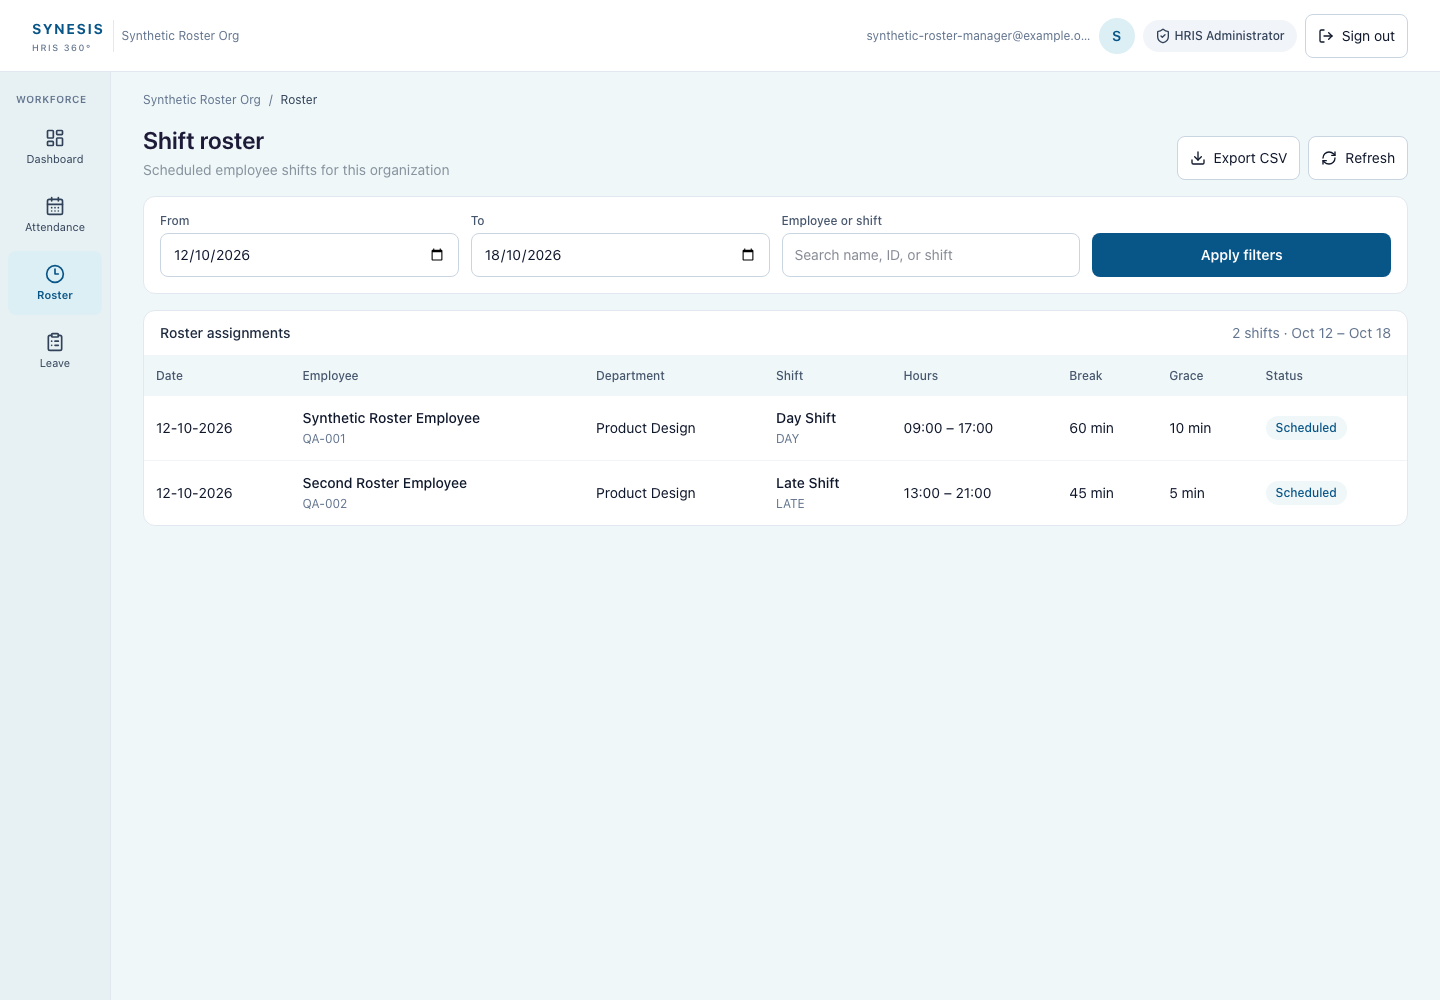
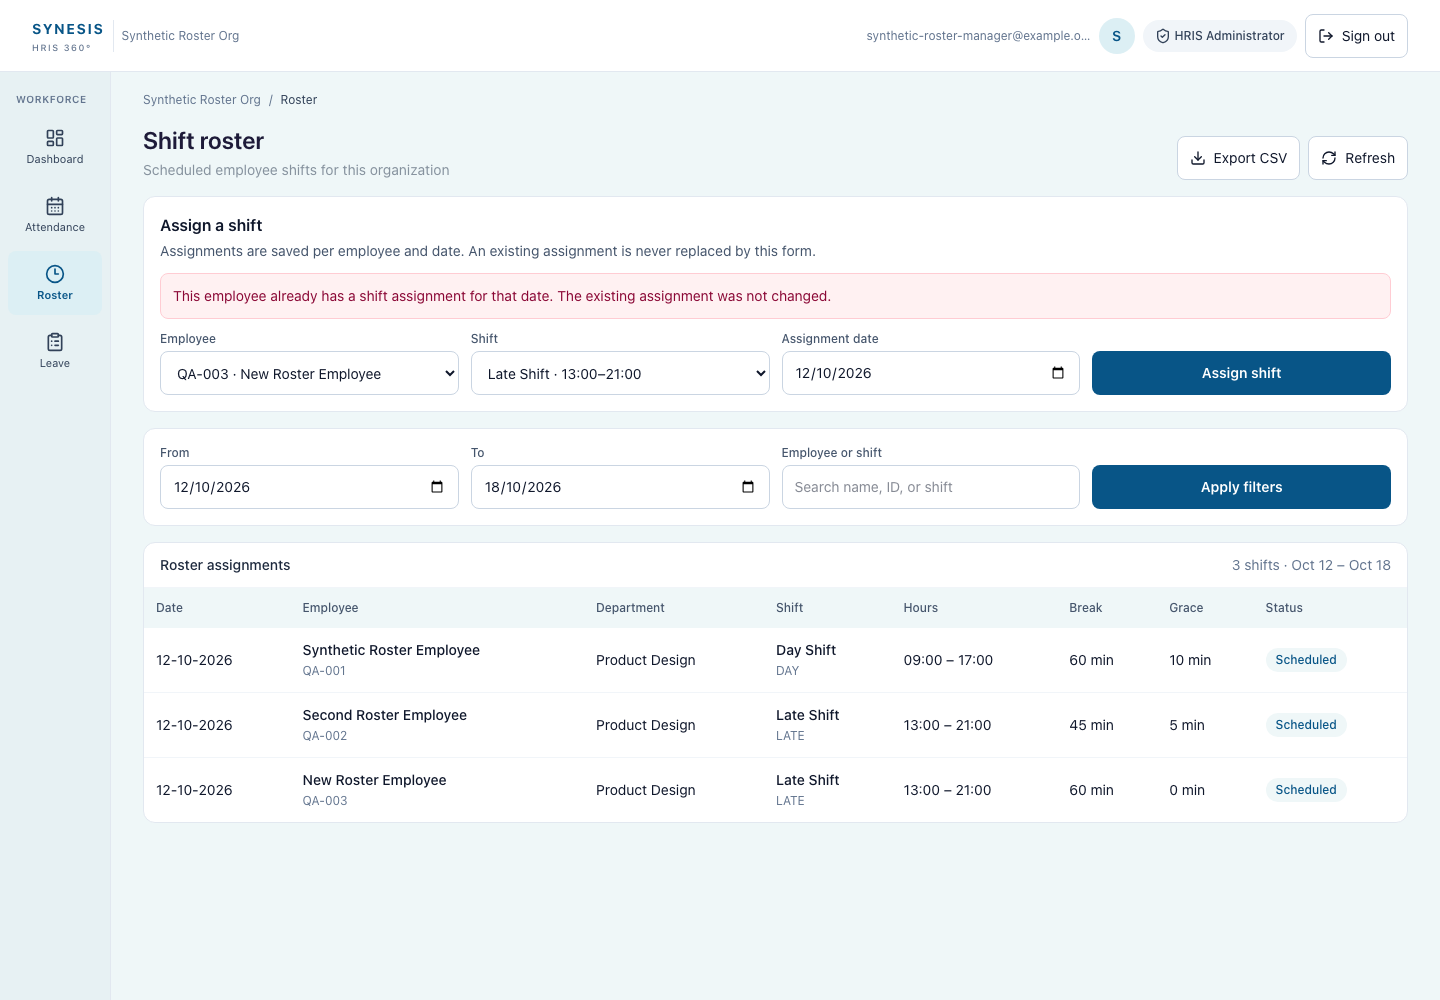
feat: add tenant-scoped shift assignment

diff --git a/src/live/LiveHrisWorkspace.tsx b/src/live/LiveHrisWorkspace.tsx
@@ -516,15 +516,53 @@ function AttendanceReport({ tenantId, canView, canReport, canManage }: { tenantI
   </section>;
 }
 
-function ShiftRoster({ tenantId }: { tenantId: string }) {
+function ShiftRoster({ tenantId, canManage }: { tenantId: string; canManage: boolean }) {
   const [assignments, setAssignments] = useState<Record<string, unknown>[]>([]);
+  const [employeeOptions, setEmployeeOptions] = useState<Record<string, unknown>[]>([]);
+  const [shiftOptions, setShiftOptions] = useState<Record<string, unknown>[]>([]);
   const [loading, setLoading] = useState(true);
+  const [optionsLoading, setOptionsLoading] = useState(false);
   const [error, setError] = useState('');
+  const [optionsError, setOptionsError] = useState('');
+  const [assignmentError, setAssignmentError] = useState('');
+  const [assignmentMessage, setAssignmentMessage] = useState('');
+  const [selectedEmployeeId, setSelectedEmployeeId] = useState('');
+  const [selectedShiftId, setSelectedShiftId] = useState('');
+  const [assignmentDate, setAssignmentDate] = useState(() => localIsoDate(new Date()));
+  const [savingAssignment, setSavingAssignment] = useState(false);
   const [from, setFrom] = useState(() => localIsoDate(new Date()));
   const [to, setTo] = useState(endOfUpcomingWeek);
   const [search, setSearch] = useState('');
   const [submittedSearch, setSubmittedSearch] = useState('');
   const requestSequence = useRef(0);
+
+  async function loadOptions() {
+    if (!canManage) {
+      setEmployeeOptions([]);
+      setShiftOptions([]);
+      return;
+    }
+    setOptionsLoading(true);
+    setOptionsError('');
+    try {
+      const result = await supabase.rpc('hris_get_tenant_shift_roster_options', { p_tenant_id: tenantId });
+      if (result.error) throw result.error;
+      const value = asObject(result.data);
+      if (!value) throw new Error('Roster assignment options returned an invalid response.');
+      const employees = asRows(value.employees);
+      const shifts = asRows(value.shifts);
+      setEmployeeOptions(employees);
+      setShiftOptions(shifts);
+      setSelectedEmployeeId(previous => employees.some(row => row.id === previous)
+        ? previous : String(employees[0]?.id || ''));
+      setSelectedShiftId(previous => shifts.some(row => row.id === previous)
+        ? previous : String(shifts[0]?.id || ''));
+    } catch (cause) {
+      setEmployeeOptions([]);
+      setShiftOptions([]);
+      setOptionsError(cause instanceof Error ? cause.message : 'Unable to load assignable employees and shifts.');
+    } finally { setOptionsLoading(false); }
+  }
 
   async function load() {
     const requestId = ++requestSequence.current;
@@ -557,6 +595,39 @@ function ShiftRoster({ tenantId }: { tenantId: string }) {
     return () => { requestSequence.current += 1; };
   }, [tenantId, from, to, submittedSearch]);
 
+  useEffect(() => { void loadOptions(); }, [tenantId, canManage]);
+
+  async function assignShift(event: FormEvent<HTMLFormElement>) {
+    event.preventDefault();
+    if (savingAssignment) return;
+    setAssignmentError('');
+    setAssignmentMessage('');
+    if (!selectedEmployeeId || !selectedShiftId || !assignmentDate) {
+      setAssignmentError('Choose an employee, shift and date.');
+      return;
+    }
+    setSavingAssignment(true);
+    try {
+      const result = await supabase.rpc('hris_assign_tenant_employee_shift', {
+        p_tenant_id: tenantId,
+        p_employee_id: selectedEmployeeId,
+        p_shift_id: selectedShiftId,
+        p_assignment_date: assignmentDate,
+      });
+      if (result.error) {
+        if (result.error.code === '23505') {
+          throw new Error('This employee already has a shift assignment for that date. The existing assignment was not changed.');
+        }
+        throw result.error;
+      }
+      const selectedEmployee = employeeOptions.find(row => row.id === selectedEmployeeId);
+      setAssignmentMessage(`Shift assigned to ${display(selectedEmployee?.full_name)}.`);
+      await load();
+    } catch (cause) {
+      setAssignmentError(cause instanceof Error ? cause.message : 'Unable to assign this shift.');
+    } finally { setSavingAssignment(false); }
+  }
+
   function downloadRoster() {
     downloadCsv(`shift-roster-${from}-to-${to}.csv`,
       ['Date', 'Employee number', 'Employee', 'Department', 'Shift', 'Code', 'Start', 'End', 'Break minutes', 'Grace minutes', 'Status'],
@@ -568,7 +639,7 @@ function ShiftRoster({ tenantId }: { tenantId: string }) {
   return <section aria-labelledby="shift-roster-heading" className="space-y-4">
     <div className="flex flex-wrap items-end justify-between gap-3">
       <div><h2 id="shift-roster-heading" className="text-2xl font-semibold text-[#1E1B39]">Shift roster</h2>
-        <p className="mt-1 text-sm text-[#86929E]">Scheduled employee shifts for {tenantId ? 'this organization' : 'the selected organization'}</p></div>
+        <p className="mt-1 text-sm text-[#86929E]">Scheduled employee shifts for this organization</p></div>
       <div className="flex flex-wrap gap-2">
         <button type="button" disabled={loading || !assignments.length} onClick={downloadRoster}
           className="inline-flex min-h-11 items-center gap-2 rounded-lg border border-slate-300 bg-white px-3 text-sm disabled:opacity-50">
@@ -580,6 +651,35 @@ function ShiftRoster({ tenantId }: { tenantId: string }) {
         </button>
       </div>
     </div>
+
+    {canManage && <section aria-labelledby="assign-shift-heading" className="rounded-xl border border-slate-200 bg-white p-4">
+      <h3 id="assign-shift-heading" className="font-semibold text-slate-900">Assign a shift</h3>
+      <p className="mt-1 text-sm text-slate-600">Assignments are saved per employee and date. An existing assignment is never replaced by this form.</p>
+      {optionsError && <StatusMessage error={optionsError} onRetry={() => void loadOptions()} />}
+      {assignmentError && <p role="alert" className="mt-3 rounded-lg border border-rose-200 bg-rose-50 p-3 text-sm text-rose-900">{assignmentError}</p>}
+      {assignmentMessage && <p role="status" className="mt-3 rounded-lg border border-emerald-200 bg-emerald-50 p-3 text-sm text-emerald-900">{assignmentMessage}</p>}
+      <form className="mt-3 grid grid-cols-1 gap-3 sm:grid-cols-2 xl:grid-cols-4" onSubmit={assignShift}>
+        <div><label htmlFor="roster-assignment-employee" className="mb-1 block text-xs font-medium text-slate-600">Employee</label>
+          <select id="roster-assignment-employee" value={selectedEmployeeId} onChange={event => setSelectedEmployeeId(event.target.value)}
+            disabled={optionsLoading || !employeeOptions.length} required className="min-h-11 w-full rounded-lg border border-slate-300 bg-white px-3 text-sm disabled:bg-slate-50">
+            {employeeOptions.map(row => <option key={String(row.id)} value={String(row.id)}>{display(row.employee_number)} · {display(row.full_name)}</option>)}
+          </select></div>
+        <div><label htmlFor="roster-assignment-shift" className="mb-1 block text-xs font-medium text-slate-600">Shift</label>
+          <select id="roster-assignment-shift" value={selectedShiftId} onChange={event => setSelectedShiftId(event.target.value)}
+            disabled={optionsLoading || !shiftOptions.length} required className="min-h-11 w-full rounded-lg border border-slate-300 bg-white px-3 text-sm disabled:bg-slate-50">
+            {shiftOptions.map(row => <option key={String(row.id)} value={String(row.id)}>{display(row.name)} · {String(row.start_time || '').slice(0, 5)}–{String(row.end_time || '').slice(0, 5)}</option>)}
+          </select></div>
+        <div><label htmlFor="roster-assignment-date" className="mb-1 block text-xs font-medium text-slate-600">Assignment date</label>
+          <input id="roster-assignment-date" type="date" value={assignmentDate} onChange={event => setAssignmentDate(event.target.value)} required
+            className="min-h-11 w-full rounded-lg border border-slate-300 px-3 text-sm" /></div>
+        <div className="flex items-end"><button type="submit" disabled={optionsLoading || savingAssignment || !employeeOptions.length || !shiftOptions.length}
+          className="min-h-11 w-full rounded-lg bg-[#085587] px-4 text-sm font-semibold text-white hover:bg-[#074770] disabled:opacity-50">
+          {savingAssignment ? 'Saving…' : 'Assign shift'}
+        </button></div>
+      </form>
+      {!optionsLoading && !optionsError && (!employeeOptions.length || !shiftOptions.length) &&
+        <p className="mt-3 text-sm text-slate-600">Active employees and shifts are required before an assignment can be made.</p>}
+    </section>}
 
     <form className="grid grid-cols-1 gap-3 rounded-xl border border-slate-200 bg-white p-4 sm:grid-cols-2 xl:grid-cols-4"
       onSubmit={event => { event.preventDefault(); setSubmittedSearch(search.trim()); }}>
@@ -1367,7 +1467,7 @@ export function LiveHrisWorkspace({
           {page === 'attendance' && permissions.attendance && <AttendanceReport
             tenantId={tenantId} canView={permissions.attendanceView} canReport={permissions.attendanceReport} canManage={permissions.attendanceManage}
           />}
-          {page === 'shift-roster' && (permissions.attendanceView || permissions.attendanceManage) && <ShiftRoster tenantId={tenantId} />}
+          {page === 'shift-roster' && (permissions.attendanceView || permissions.attendanceManage) && <ShiftRoster tenantId={tenantId} canManage={permissions.attendanceManage} />}
           {page === 'leave' && permissions.leave && <LeaveWorkspace tenantId={tenantId} canManage={permissions.leaveManage} />}
           {page === 'my-dashboard' && isEmployee && <EmployeeOverview tenantId={tenantId} tenantName={tenantName} userId={userId} />}
           {!nav.length && <section className="mx-auto mt-12 max-w-xl rounded-xl border border-slate-200 bg-white p-6 text-center">

diff --git a/tests/browser/shift-roster.spec.ts b/tests/browser/shift-roster.spec.ts
@@ -16,6 +16,7 @@ const jwt = [jwtHeader, jwtPayload, 'synthetic-signature'].join('.');
 test('tenant shift roster uses the scoped RPC, filters, exports, and remains usable on mobile', async ({ page }) => {
   const externalRequests: string[] = [];
   const rosterCalls: Record<string, unknown>[] = [];
+  const assignmentCalls: Record<string, unknown>[] = [];
   const today = new Date();
   const assignmentDate = new Date(today.getTime() - today.getTimezoneOffset() * 60_000).toISOString().slice(0, 10);
   const rows = [
@@ -31,6 +32,15 @@ test('tenant shift roster uses the scoped RPC, filters, exports, and remains usa
       shift_id: 'a6666666-6666-4666-8666-666666666666', shift_name: 'Late Shift', shift_code: 'LATE',
       start_time: '13:00:00', end_time: '21:00:00', grace_minutes: 5, break_minutes: 45,
       weekly_off_days: [0, 6] },
+  ];
+  const employeeOptions = [
+    { id: 'a2222222-2222-4222-8222-222222222222', employee_number: 'QA-001', full_name: 'Synthetic Roster Employee', department_name: 'Product Design' },
+    { id: 'a5555555-5555-4555-8555-555555555555', employee_number: 'QA-002', full_name: 'Second Roster Employee', department_name: 'Product Design' },
+    { id: 'a7777777-7777-4777-8777-777777777777', employee_number: 'QA-003', full_name: 'New Roster Employee', department_name: 'Product Design' },
+  ];
+  const shiftOptions = [
+    { id: 'a3333333-3333-4333-8333-333333333333', name: 'Day Shift', code: 'DAY', start_time: '09:00:00', end_time: '17:00:00' },
+    { id: 'a6666666-6666-4666-8666-666666666666', name: 'Late Shift', code: 'LATE', start_time: '13:00:00', end_time: '21:00:00' },
   ];
 
   await page.route('**/*', async route => {
@@ -71,6 +81,31 @@ test('tenant shift roster uses the scoped RPC, filters, exports, and remains usa
         const data = term ? rows.filter(row =>
           `${row.full_name} ${row.employee_number} ${row.shift_name} ${row.shift_code}`.toLocaleLowerCase().includes(term)) : rows;
         await route.fulfill({ status: 200, contentType: 'application/json', body: JSON.stringify(data) });
+      } else if (endpoint === 'hris_get_tenant_shift_roster_options') {
+        await route.fulfill({ status: 200, contentType: 'application/json', body: JSON.stringify({
+          employees: employeeOptions, shifts: shiftOptions,
+        }) });
+      } else if (endpoint === 'hris_assign_tenant_employee_shift') {
+        const body = request.postDataJSON() as Record<string, unknown>;
+        assignmentCalls.push(body);
+        const duplicate = rows.some(row => row.employee_id === body.p_employee_id
+          && row.assignment_date === body.p_assignment_date);
+        if (duplicate) {
+          await route.fulfill({ status: 409, contentType: 'application/json', body: JSON.stringify({
+            code: '23505', message: 'duplicate key value violates unique constraint',
+          }) });
+          return;
+        }
+        const employee = employeeOptions.find(row => row.id === body.p_employee_id);
+        const shift = shiftOptions.find(row => row.id === body.p_shift_id);
+        rows.push({ assignment_id: 'a8888888-8888-4888-8888-888888888888',
+          assignment_date: String(body.p_assignment_date), assignment_status: 'scheduled',
+          employee_id: String(body.p_employee_id), employee_number: employee?.employee_number || '',
+          full_name: employee?.full_name || '', department_name: employee?.department_name || '',
+          shift_id: String(body.p_shift_id), shift_name: shift?.name || '', shift_code: shift?.code || '',
+          start_time: shift?.start_time || '', end_time: shift?.end_time || '', grace_minutes: 0,
+          break_minutes: 60, weekly_off_days: [0, 6] });
+        await route.fulfill({ status: 200, contentType: 'application/json', body: JSON.stringify('a8888888-8888-4888-8888-888888888888') });
       } else {
         await route.fulfill({ status: 200, contentType: 'application/json', body: '{}' });
       }
@@ -109,6 +144,20 @@ test('tenant shift roster uses the scoped RPC, filters, exports, and remains usa
   await page.getByRole('button', { name: 'Apply filters' }).click();
   await expect(rosterTable.getByRole('row', { name: /Synthetic Roster Employee/ })).toBeVisible();
   await expect(rosterTable.getByRole('row', { name: /Second Roster Employee/ })).toBeVisible();
+
+  await page.getByLabel('Employee', { exact: true }).selectOption('a7777777-7777-4777-8777-777777777777');
+  await page.getByLabel('Shift', { exact: true }).selectOption('a6666666-6666-4666-8666-666666666666');
+  await page.getByLabel('Assignment date').fill(assignmentDate);
+  await page.getByRole('button', { name: 'Assign shift', exact: true }).click();
+  await expect(page.getByRole('status')).toContainText('Shift assigned to New Roster Employee.');
+  await expect(rosterTable.getByRole('row', { name: /New Roster Employee/ })).toContainText('Late Shift');
+  expect(assignmentCalls.at(-1)).toMatchObject({ p_tenant_id: tenantId,
+    p_employee_id: 'a7777777-7777-4777-8777-777777777777',
+    p_shift_id: 'a6666666-6666-4666-8666-666666666666', p_assignment_date: assignmentDate });
+
+  await page.getByRole('button', { name: 'Assign shift', exact: true }).click();
+  await expect(page.getByRole('alert')).toContainText('This employee already has a shift assignment for that date.');
+  await expect(rosterTable.getByRole('row', { name: /New Roster Employee/ })).toHaveCount(1);
 
   const downloadPromise = page.waitForEvent('download');
   await page.getByRole('button', { name: 'Export CSV' }).click();
